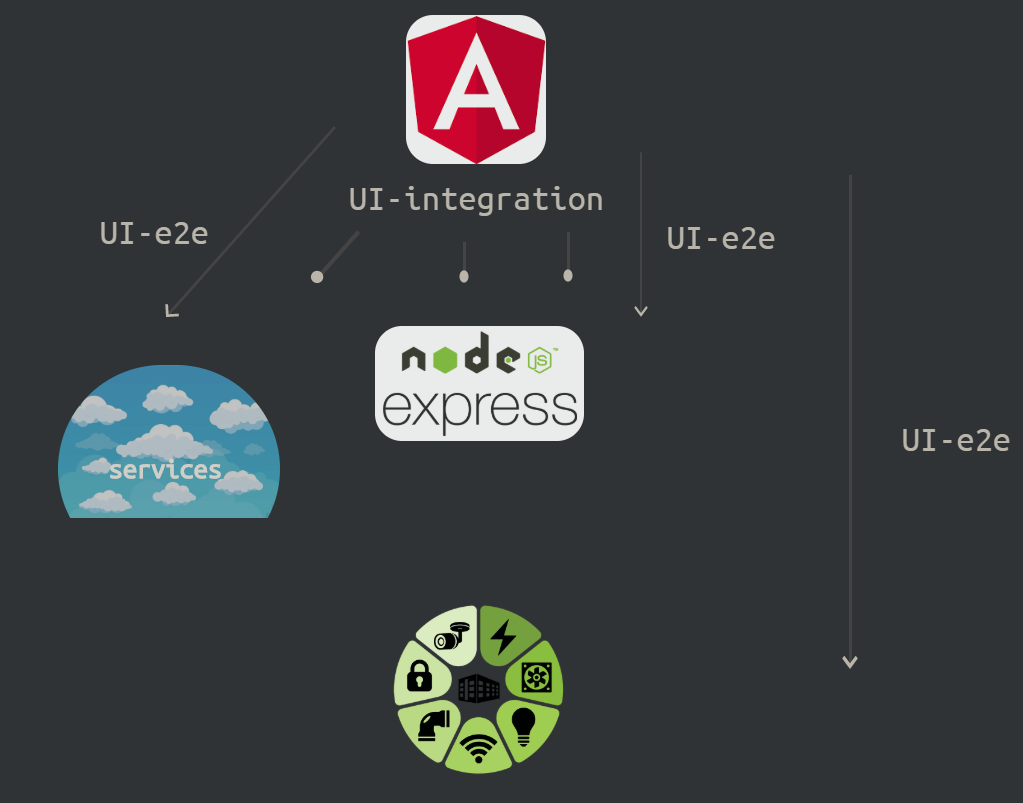
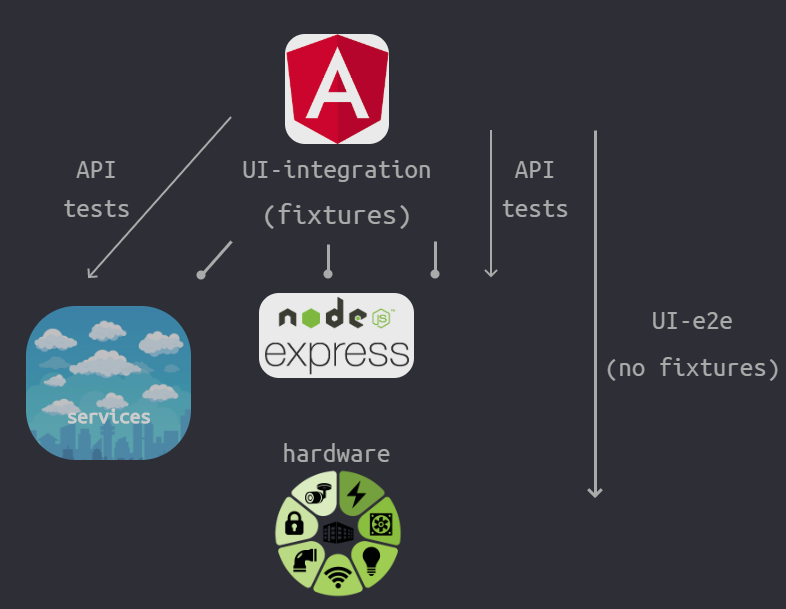
back-end(topic3.4):
moved the topic to a new section (5) Real life examples and updated all links

checked off the topic from draft.md

Updated the test architecture image

diff --git a/README.md b/README.md
@@ -164,13 +164,6 @@ some UI utilities that make easy to use them as a development tool.
 
 🔗 [**Read More: Monitoring tests**](/sections/server-communication-testing/monitoring-tests.md)
 
-## ![✔] 3.4 Test the front-end with the integration tests, the back-end with the E2E ones
-
-**TL;DR:** UI tests with a stubbed server are reliable and faster compared to full E2E tests. Full E2E tests are not always necessary to ensure front-end quality. We can instead have high confidence in front-end quality by using lower-cost UI integration tests and saving higher cost E2E tests for the back-end.
-
-**Otherwise:** You waste time and resources with slow and brittle E2E tests while you can get a lot of confidence with a lot of UI integrations tests.
-
-🔗 [**Read More: Test the front-end with the integration tests, the back-end with the E2E ones**](/sections/server-communication-testing/test-front-end-with-integration-back-end-with-e2e.md)
 
 <br/><br/>
 
@@ -186,7 +179,18 @@ some UI utilities that make easy to use them as a development tool.
 🔗 [**Read More: Approach the testing pyramid from the top!**](/sections/beginners/top-to-bottom-approach.md)
 
 
-<br/>
+<br/> <br/>
+
+# `5. Real Life Examples`
+
+
+## ![✔] 5.1 Test the front-end with the integration tests, the back-end with the E2E ones  - in reference to  [Component vs Integration vs E2e Testing](./sections/testing-strategy/component-vs-integration-vs-e2e-testing.md)
+
+**TL;DR:** UI tests with a stubbed server are reliable and faster compared to full E2E tests. Full E2E tests are not always necessary to ensure front-end quality. We can instead have high confidence in front-end quality by using lower-cost UI integration tests and saving higher cost E2E tests for the back-end.
+
+**Otherwise:** You waste time and resources with slow and brittle E2E tests while you can get a lot of confidence with a lot of UI integrations tests.
+
+🔗 [**Read More: Test the front-end with the integration tests, the back-end with the E2E ones**](./sections/real-life-examples/test-front-end-with-integration-back-end-with-e2e.md)
 
 
 <br/><br/><br/>

diff --git a/sections/real-life-examples/test-front-end-with-integration-back-end-with-e2e.md b/sections/real-life-examples/test-front-end-with-integration-back-end-with-e2e.md
@@ -1,4 +1,4 @@
-# Test the front-end with the integration tests, the back-end with the E2E ones
+# Real life example: *Test the front-end with the integration tests, the back-end with the E2E ones* - in reference to  [Component vs Integration vs E2e Testing](./sections/testing-strategy/component-vs-integration-vs-e2e-testing.md): 
 
 <br/><br/>
 
@@ -15,7 +15,7 @@ We can still achieve high confidence for the front-end by using lower-cost UI in
 
 ### Sample Test Architecture Diagram
 
-A high-level architectural view from a real-world Building Controls Cloud application.
+A high-level architectural view from a real-world [Building Controls Cloud application](https://new.siemens.com/global/en/products/buildings/digitalization/building-operator.html).
 
 * Angular front-end
 * Node-Express API (back-end)

diff --git a/sections/draft.md b/sections/draft.md
@@ -3,7 +3,7 @@
 
 - [ ] back-end related tests
     - [x] test request and response payloads
-    - [ ] test the frontend with the integration tests, the backend with the E2E ones
+    - [x] test the frontend with the integration tests, the backend with the E2E ones
     - [x] test the server schema (or everything that can impact the front-end app like PostMan exports, Elastic Search mappings etc.). That sould not be part of the front-end tests but consider that the app will be often broken by a server data change
     - [x] monitoring tests?
 - [ ] testing strategy
